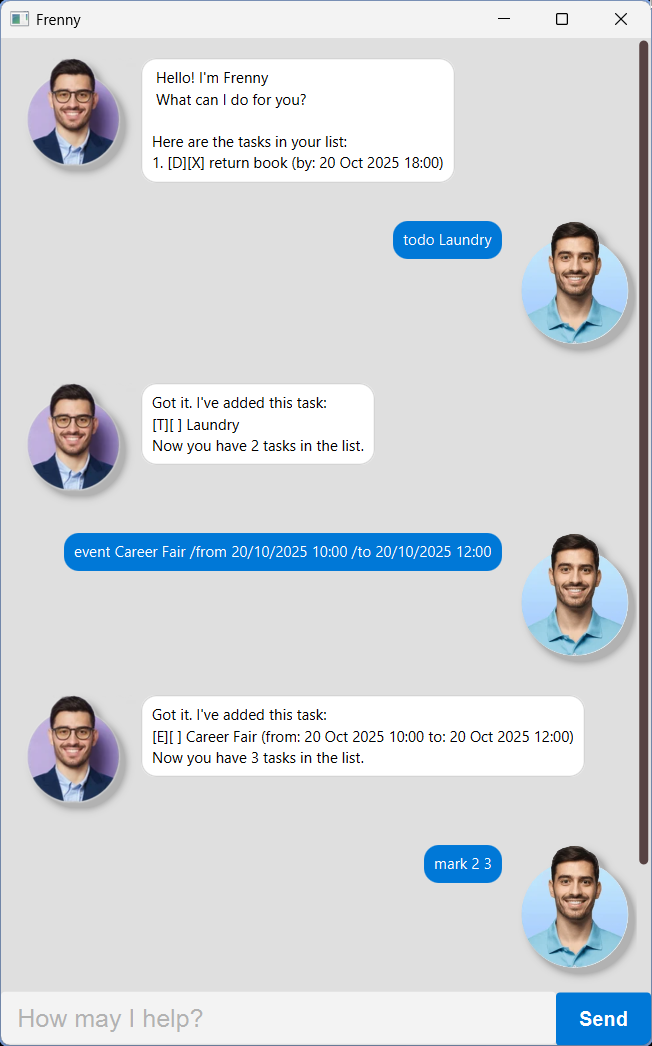
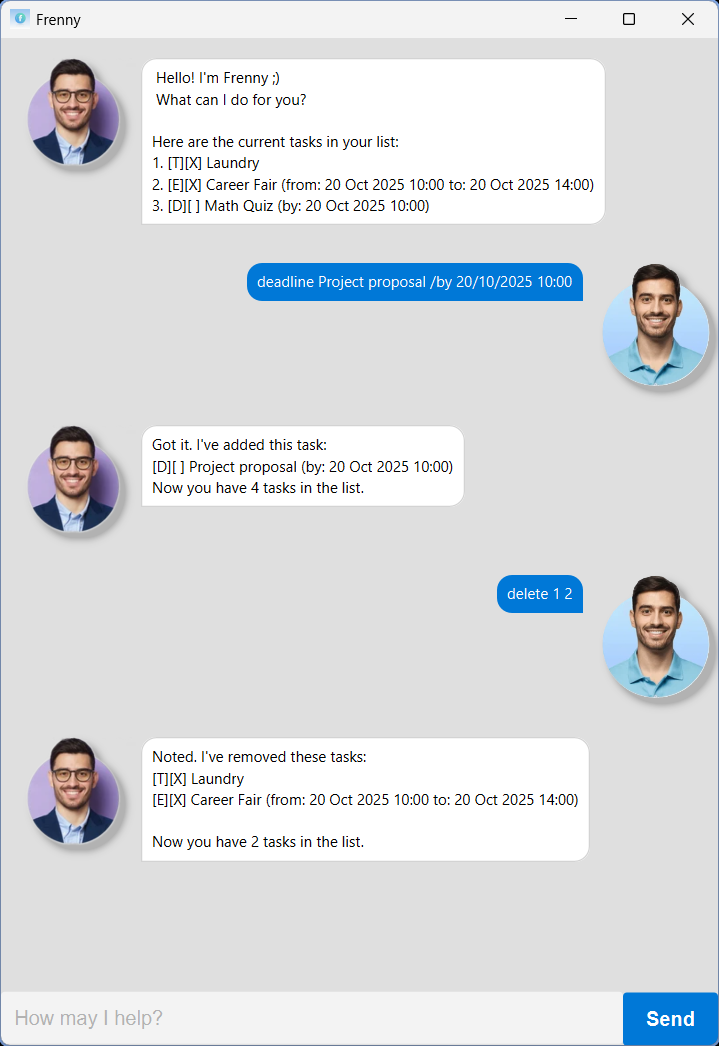
Add support to handle more user command variations

diff --git a/src/main/resources/css/dialog-box.css b/src/main/resources/css/dialog-box.css
@@ -1,8 +1,8 @@
 .label {
     -fx-background-color: #0078d7;
     -fx-text-fill: white;
-    -fx-background-radius: 1em 1em 1em 1em;
-    -fx-border-radius: 1em 1em 1em 1em;
+    -fx-background-radius: 1em 1em 0em 1em;
+    -fx-border-radius: 1em 1em 0em 1em;
 }
 
 .reply-label {
@@ -10,8 +10,8 @@
     -fx-text-fill: black;
     -fx-border-color: lightgrey;
     -fx-border-width: 1px;
-    -fx-background-radius: 1em 1em 1em 1em;
-    -fx-border-radius: 1em 1em 1em 1em;
+    -fx-background-radius: 1em 1em 1em 0em;
+    -fx-border-radius: 1em 1em 1em 0em;
 }
 
 /* Paste this below reply-label */

diff --git a/src/main/resources/css/main.css b/src/main/resources/css/main.css
@@ -6,13 +6,11 @@
 
 .text-field {
     -fx-background-color: #f3f3f3;
-    -fx-border-radius: 1em;
-    -fx-font: 20px "Arial";
+    -fx-font: 16px "Arial";
 }
 
 .button {
     -fx-background-color: #0078d7;
-    -fx-border-radius: 1em;
     -fx-font: bold 16px "Arial";
     -fx-text-fill: white;
 }

diff --git a/src/main/java/gui/MainWindow.java b/src/main/java/gui/MainWindow.java
@@ -29,8 +29,9 @@ public class MainWindow extends AnchorPane {
 
     private Frenny frenny;
 
-    private Image frennyImage = new Image(this.getClass().getResourceAsStream("/images/frenny.png"));
-    private Image userImage = new Image(this.getClass().getResourceAsStream("/images/user.png"));
+    // Image loading from classpath to ensure the images are portable with the JAR file
+    private final Image frennyImage = new Image(this.getClass().getResourceAsStream("/images/frenny.png"));
+    private final Image userImage = new Image(this.getClass().getResourceAsStream("/images/user.png"));
 
     @FXML
     public void initialize() {
@@ -49,13 +50,18 @@ public class MainWindow extends AnchorPane {
     @FXML
     private void handleUserInput() {
         String input = userInput.getText();
+        // Trim input
+        input = input.trim();
+        boolean isInputEmpty = input.isEmpty();
+        boolean isEditCommand = !isInputEmpty
+                && input.split(" ")[0].equalsIgnoreCase("edit");
         String response = frenny.getResponse(input);
         dialogContainer.getChildren().addAll(
                 DialogBox.getUserDialog(input, userImage)
         );
         if (input.trim().equalsIgnoreCase("bye")) {
             handleExit(response);
-        } else if (input.split(" ")[0].equalsIgnoreCase("edit")) {
+        } else if (isEditCommand) {
             System.out.println(response);
             handleEditTask(response);
         } else {

diff --git a/src/main/java/storage/Storage.java b/src/main/java/storage/Storage.java
@@ -64,6 +64,7 @@ public class Storage {
         assert taskList != null : "TaskList cannot be null";
         try {
             File historyFile = new File(filePath);
+            System.out.println("Reading from file: " + historyFile.getAbsolutePath());
             if (historyFile.exists()) {
                 try (Scanner fileScanner = new Scanner(historyFile)) {
                     while (fileScanner.hasNextLine()) {
@@ -92,15 +93,15 @@ public class Storage {
     public void writeFile(TaskList taskList) {
         assert taskList != null : "TaskList cannot be null";
         List<Task> items = taskList.getList();
-        for (Task item : items) {
-            // Write each task to the file
-            try {
-                FileWriter fw = new FileWriter(filePath);
+        try {
+            FileWriter fw = new FileWriter(filePath);
+            for (Task item : items) {
+                // Write each task to the file
                 fw.write(item.generateHistoryFileEntry() + System.lineSeparator());
-                fw.close();
-            } catch (IOException e) {
-                System.out.println("An error occurred while writing the file.");
             }
+            fw.close();
+        } catch (IOException e) {
+            System.out.println("An error occurred while writing the file.");
         }
     }
 }

diff --git a/src/main/java/command/Parser.java b/src/main/java/command/Parser.java
@@ -243,6 +243,12 @@ public class Parser {
     public static String processInput(TaskList taskList, String input) {
         // Implementation for adding a task
         assert taskList != null : "TaskList should not be null";
+        // Trim input to avoid issues with leading/trailing spaces
+        input = input.trim();
+        System.out.println(input);
+        if (input.isEmpty()) {
+            return handleInvalidCommand();
+        }
         String[] parts = input.split(" ", 2);
         String commandTypeString = parts[0];
         CommandType commandType = CommandType.fromString(commandTypeString);
@@ -284,9 +290,13 @@ public class Parser {
     }
 
     private static int[] stringToIntArray(String input) {
+        input = input.trim();
         String[] parts = input.split(" ");
         int[] numbers = new int[parts.length];
         for (int i = 0; i < parts.length; i++) {
+            if (parts[i].isEmpty()) {
+                continue;
+            }
             numbers[i] = Integer.parseInt(parts[i]);
         }
         return numbers;

diff --git a/src/main/java/gui/Main.java b/src/main/java/gui/Main.java
@@ -8,6 +8,7 @@ import javafx.application.Application;
 import javafx.application.Platform;
 import javafx.fxml.FXMLLoader;
 import javafx.scene.Scene;
+import javafx.scene.image.Image;
 import javafx.scene.layout.AnchorPane;
 import javafx.stage.Stage;
 import javafx.util.Duration;
@@ -20,15 +21,14 @@ public class Main extends Application {
 
     private static final String PROJECT_DIR = System.getProperty("user.dir");
     private static final String FILE_PATH = PROJECT_DIR + "/data/frenny.txt";
-    {
-        System.out.println("Project Directory: " + PROJECT_DIR);
-        System.out.println(FILE_PATH);
-    }
     private final Frenny frenny = new Frenny(FILE_PATH);
 
     @Override
     public void start(Stage stage) {
         try {
+            // Set application icon
+            final Image frennyIcon = new Image(this.getClass().getResourceAsStream("/images/frenny_icon.png"));
+            stage.getIcons().add(frennyIcon);
             // Set window title
             stage.setTitle("Frenny");
             // Set minimum window size

diff --git a/src/main/java/ui/Ui.java b/src/main/java/ui/Ui.java
@@ -42,7 +42,7 @@ public class Ui {
         if (listSize == 0) {
             message = "No task for now :P";
         } else {
-            message = "Here are the tasks in your list:";
+            message = "Here are the current tasks in your list:";
         }
         System.out.println(message);
         return message;
